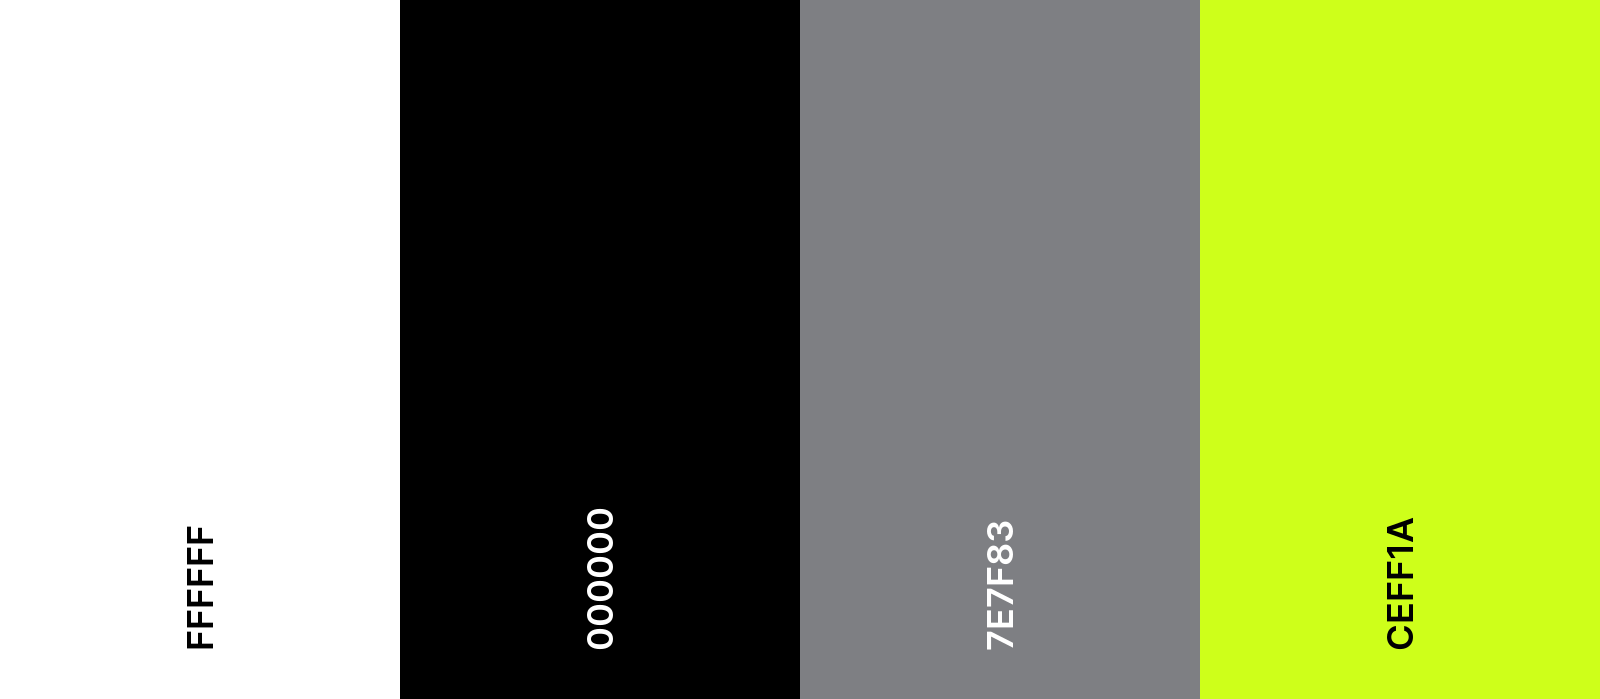
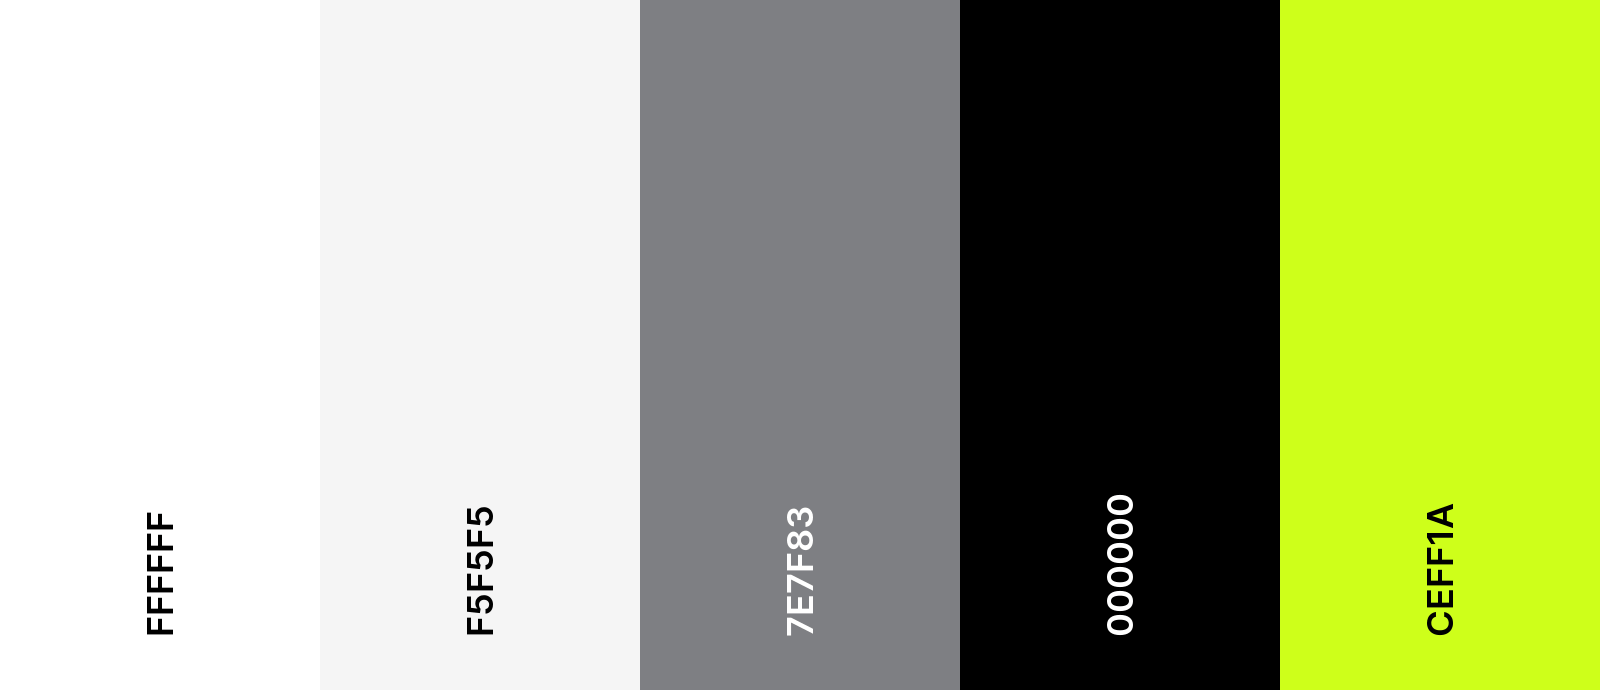
Updated colour scheme image and link in readme

diff --git a/README.md b/README.md
@@ -10,11 +10,12 @@
 
 ![Colour Scheme](readme/design/colour-scheme.png)
 
-[Coolor](https://coolors.co/ffffff-000000-7e7f83-ceff1a) was used to create a colour scheme for the project:
+[Coolor](https://coolors.co/ffffff-f5f5f5-7e7f83-000000-ceff1a) was used to create a colour scheme for the project:
 
 * White `#FFFFFF`
-* Black `#000000`
+* Cultured `#F5F5F5`
 * Gray Web `#7E7F83`
+* Black `#000000`
 * Electric Lime `#CEFF1A`
 
 ### Typography
